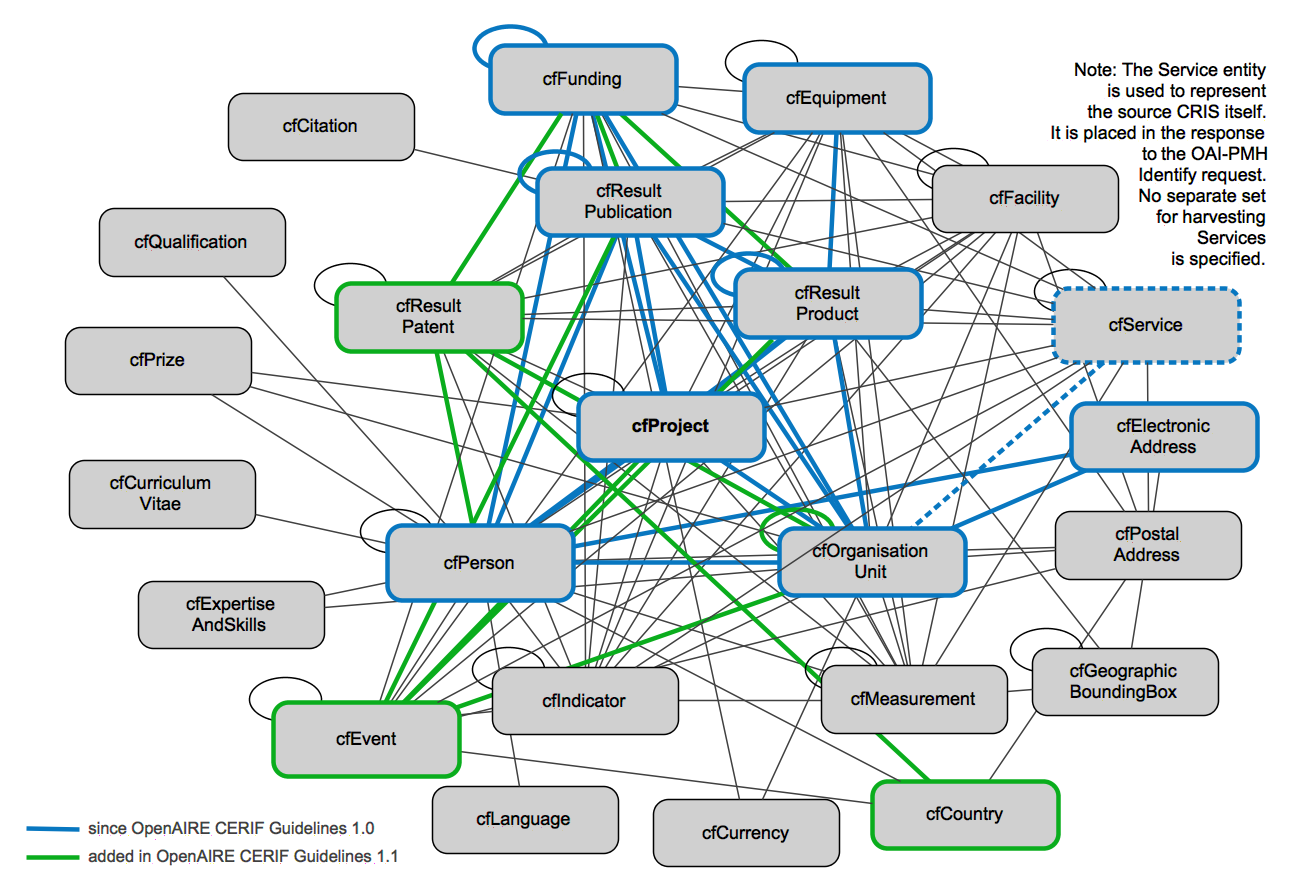
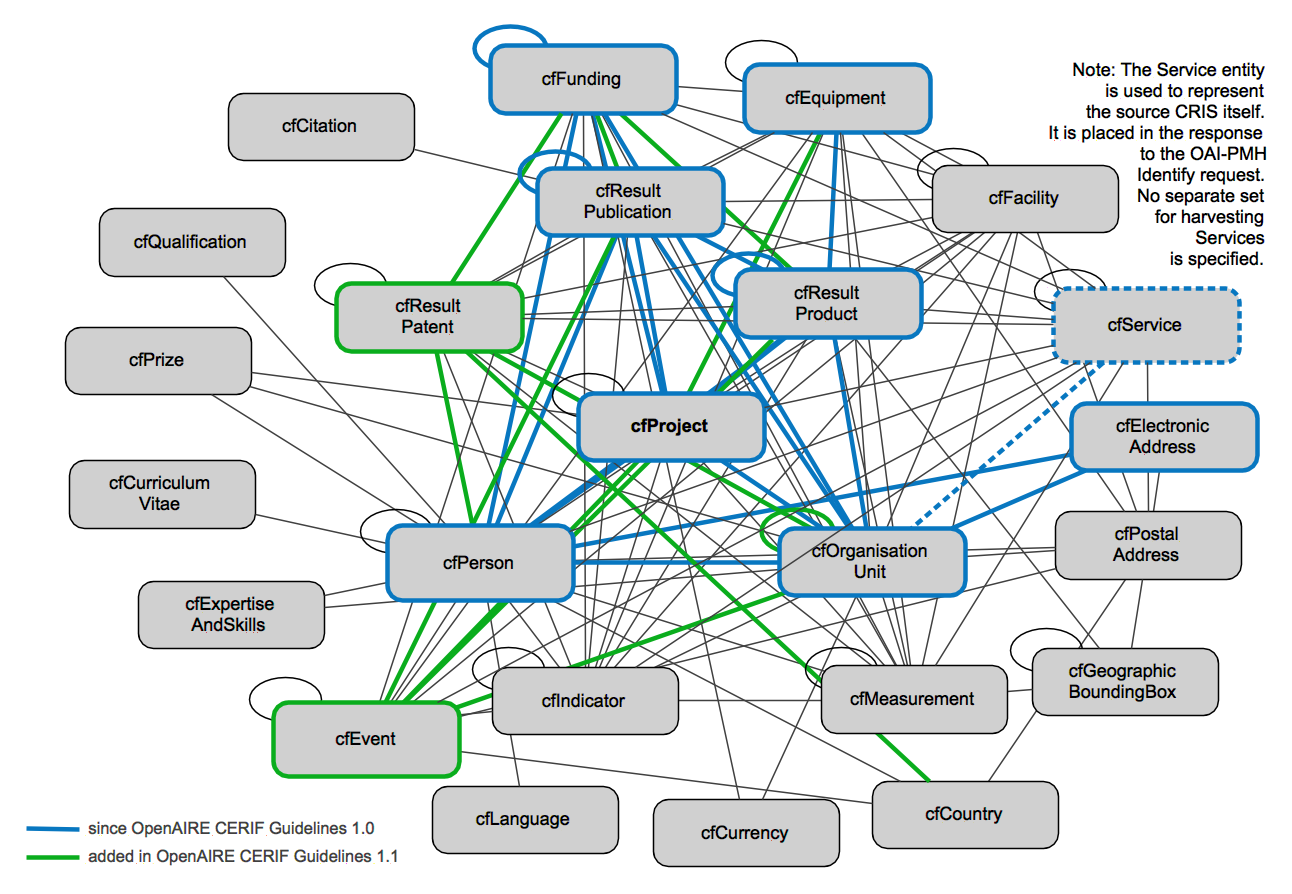
two corrections
- removed the green border on cfCountry: it is not an OpenAIRE CERIF entity, no OAI-PMH set of countries is defined
- added the cfProject–cfEquipment link, is present since introduction of Project/Uses/Equipment

diff --git a/docs/_illustrations/data_model_cerif_openaire.vue b/docs/_illustrations/data_model_cerif_openaire.vue
@@ -1,14 +1,14 @@
-<!-- Tufts VUE 3.3.0 concept-map (data_model_cerif_openaire.vue) 2018-04-07 -->
+<!-- Tufts VUE 3.3.0 concept-map (data_model_cerif_openaire.vue) 2018-05-24 -->
 <!-- Tufts VUE: http://vue.tufts.edu/ -->
 <!-- Do Not Remove: VUE mapping @version(1.1) jar:file:/Applications/VUE.localized/VUE.app/Contents/Resources/Java/VUE.jar!/tufts/vue/resources/lw_mapping_1_1.xml -->
-<!-- Do Not Remove: Saved date Sat Apr 07 15:40:48 CEST 2018 by jdvorak on platform Mac OS X 10.13.4 in JVM 1.8.0_152-b16 -->
+<!-- Do Not Remove: Saved date Thu May 24 19:28:50 CEST 2018 by jdvorak on platform Mac OS X 10.13.4 in JVM 9.0.4+11 -->
 <!-- Do Not Remove: Saving version @(#)VUE: built October 8 2015 at 1658 by tomadm on Linux 2.6.32-504.23.4.el6.x86_64 i386 JVM 1.7.0_21-b11(bits=32) -->
 <?xml version="1.0" encoding="US-ASCII"?>
 <LW-MAP xmlns:xsi="http://www.w3.org/2001/XMLSchema-instance"
     xsi:noNamespaceSchemaLocation="none" ID="0"
     label="data_model_cerif_openaire.vue" created="1393077696638"
     x="0.0" y="0.0" width="785.0" height="584.10004" strokeWidth="0.0" autoSized="false">
-    <resource referenceCreated="1523108448846" size="100399"
+    <resource referenceCreated="1527182930427" size="99988"
         spec="/Users/jdvorak/Documents/workspace/guidelines-cris-managers/docs/_illustrations/data_model_cerif_openaire.vue"
         type="1" xsi:type="URLResource">
         <title>data_model_cerif_openaire.vue</title>
@@ -126,9 +126,9 @@
     </child>
     <child ID="26" label="cfCountry" layerID="1" created="1393078020366"
         x="585.28876" y="475.197" width="124.0" height="45.0"
-        strokeWidth="3.0" autoSized="false" xsi:type="node">
+        strokeWidth="1.0" autoSized="false" xsi:type="node">
         <fillColor>#D0D0D0</fillColor>
-        <strokeColor>#0AAD1D</strokeColor>
+        <strokeColor>#000000</strokeColor>
         <textColor>#000000</textColor>
         <font>Arial-plain-12</font>
         <URIString>http://vue.tufts.edu/rdf/resource/5a01a201c0a80005016fc94fbdfe6685</URIString>
@@ -443,9 +443,9 @@
         <ID2 xsi:type="node">28</ID2>
     </child>
     <child ID="87" layerID="1" created="1393078404656" x="461.9041"
-        y="42.0" width="89.19174" height="175.0" strokeWidth="1.0"
+        y="42.0" width="89.19174" height="175.0" strokeWidth="3.0"
         autoSized="false" controlCount="0" arrowState="0" xsi:type="link">
-        <strokeColor>#404040</strokeColor>
+        <strokeColor>#0AAD1D</strokeColor>
         <textColor>#404040</textColor>
         <font>Arial-plain-11</font>
         <URIString>http://vue.tufts.edu/rdf/resource/5a01a1ebc0a80005016fc94f4033e17e</URIString>
@@ -1861,7 +1861,7 @@
         </child>
     </child>
     <child ID="228"
-        label="Note: The Service entity&#xa;    &#xa;    &#xa;       is used to represent&#xa;    &#xa;    &#xa;      the source CRIS itself.&#xa;    &#xa;    &#xa;       It is placed in the response&#xa;    &#xa;    &#xa;       to the OAI-PMH&#xa;    &#xa;    &#xa;      Identify request.&#xa;    &#xa;    &#xa;      No separate set&#xa;    &#xa;    &#xa;      for harvesting&#xa;    &#xa;    &#xa;      Services&#xa;    &#xa;    &#xa;      is specified."
+        label="Note: The Service entity is used to represent the source CRIS itself. It is placed in the response to the OAI-PMH Identify request. No separate set for harvesting Services is specified."
         layerID="1" created="1523101581415" x="700.484" y="-5.563843"
         width="148.0" height="156.0" strokeWidth="0.0" autoSized="false" xsi:type="text">
         <strokeColor>#404040</strokeColor>
@@ -1885,16 +1885,16 @@
       Note: The Service entity
     &lt;/p&gt;
     &lt;p color="#000000" style="color: #000000; text-align: right"&gt;
-       is used to represent
+      is used to represent
     &lt;/p&gt;
     &lt;p color="#000000" style="color: #000000; text-align: right"&gt;
       the source CRIS itself.
     &lt;/p&gt;
     &lt;p color="#000000" style="color: #000000; text-align: right"&gt;
-       It is placed in the response
+      It is placed in the response
     &lt;/p&gt;
     &lt;p color="#000000" style="color: #000000; text-align: right"&gt;
-       to the OAI-PMH
+      to the OAI-PMH
     &lt;/p&gt;
     &lt;p color="#000000" style="color: #000000; text-align: right"&gt;
       Identify request.
@@ -1914,34 +1914,7 @@
   &lt;/body&gt;
 &lt;/html&gt;
 </richText>
-        <label>Note: The Service entity
-    
-    
-       is used to represent
-    
-    
-      the source CRIS itself.
-    
-    
-       It is placed in the response
-    
-    
-       to the OAI-PMH
-    
-    
-      Identify request.
-    
-    
-      No separate set
-    
-    
-      for harvesting
-    
-    
-      Services
-    
-    
-      is specified.</label>
+        <label>Note: The Service entity is used to represent the source CRIS itself. It is placed in the response to the OAI-PMH Identify request. No separate set for harvesting Services is specified.</label>
     </child>
     <layer ID="1" label="Layer 1" created="1393077696661" x="0.0"
         y="0.0" width="1.4E-45" height="1.4E-45" strokeWidth="0.0" autoSized="false">
@@ -1968,7 +1941,7 @@
                 <URIString>http://vue.tufts.edu/rdf/resource/5a01a20bc0a80005016fc94f272ce6d9</URIString>
                 <titleStyle ID="3" label="Header"
                     created="1393077697623" x="341.0" y="175.0"
-                    width="118.0" height="50.0" strokeWidth="0.0"
+                    width="119.0" height="50.0" strokeWidth="0.0"
                     autoSized="true" isStyle="true" xsi:type="node">
                     <strokeColor>#404040</strokeColor>
                     <textColor>#FFFFFF</textColor>
@@ -1978,7 +1951,7 @@
                 </titleStyle>
                 <textStyle ID="4" label="Slide Text"
                     created="1393077697624" x="349.5" y="282.5"
-                    width="101.0" height="35.0" strokeWidth="0.0"
+                    width="102.0" height="35.0" strokeWidth="0.0"
                     autoSized="true" isStyle="true" xsi:type="node">
                     <strokeColor>#404040</strokeColor>
                     <textColor>#FFFFFF</textColor>
@@ -1987,7 +1960,7 @@
                     <shape xsi:type="rectangle"/>
                 </textStyle>
                 <linkStyle ID="5" label="Links" created="1393077697625"
-                    x="375.5" y="385.0" width="49.0" height="30.0"
+                    x="375.5" y="385.0" width="50.0" height="30.0"
                     strokeWidth="0.0" autoSized="true" isStyle="true" xsi:type="node">
                     <strokeColor>#404040</strokeColor>
                     <textColor>#B3BFE3</textColor>
